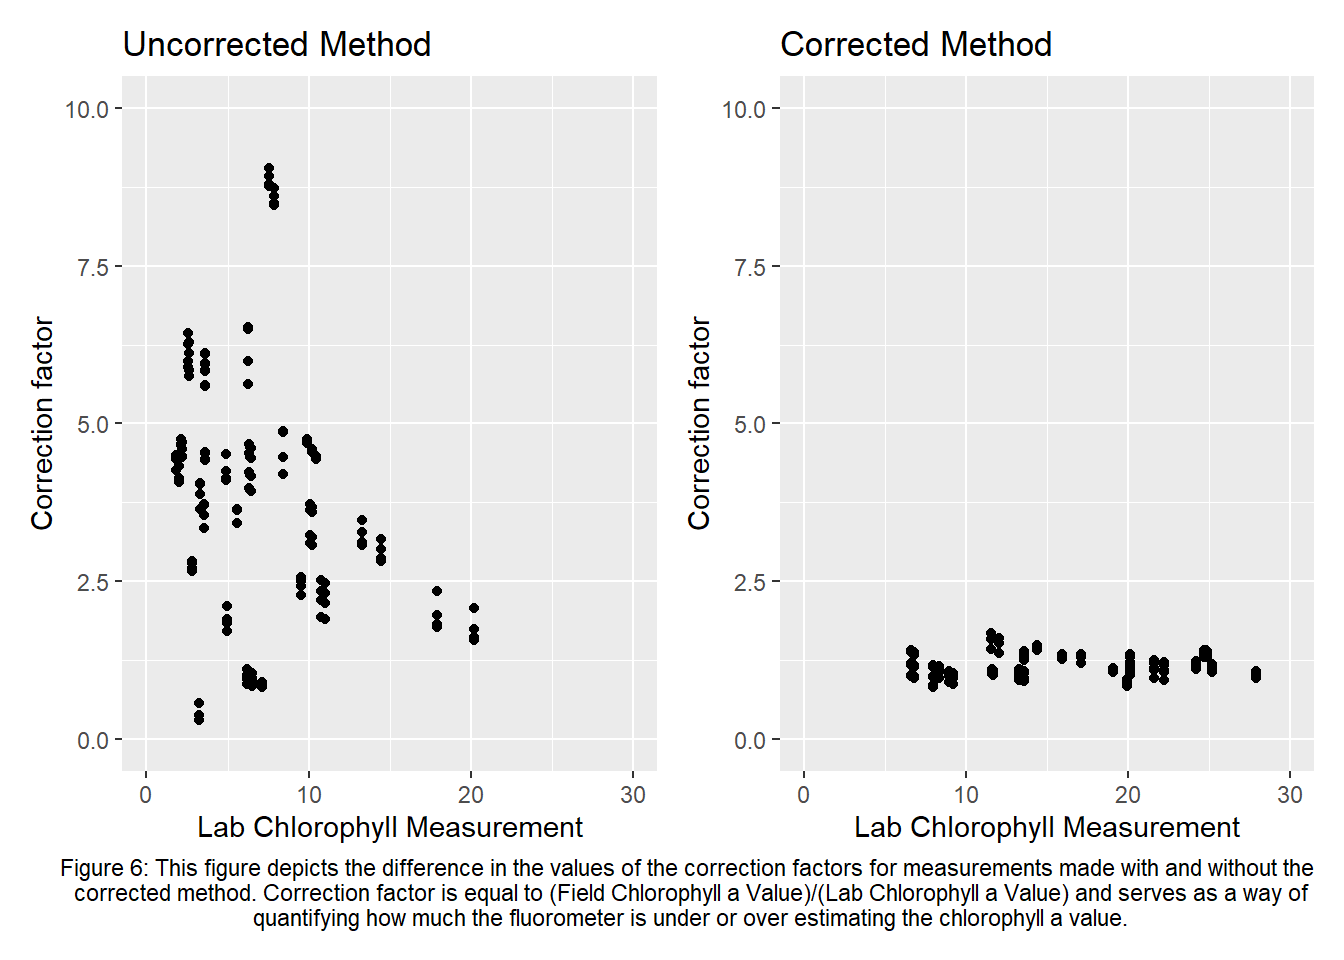
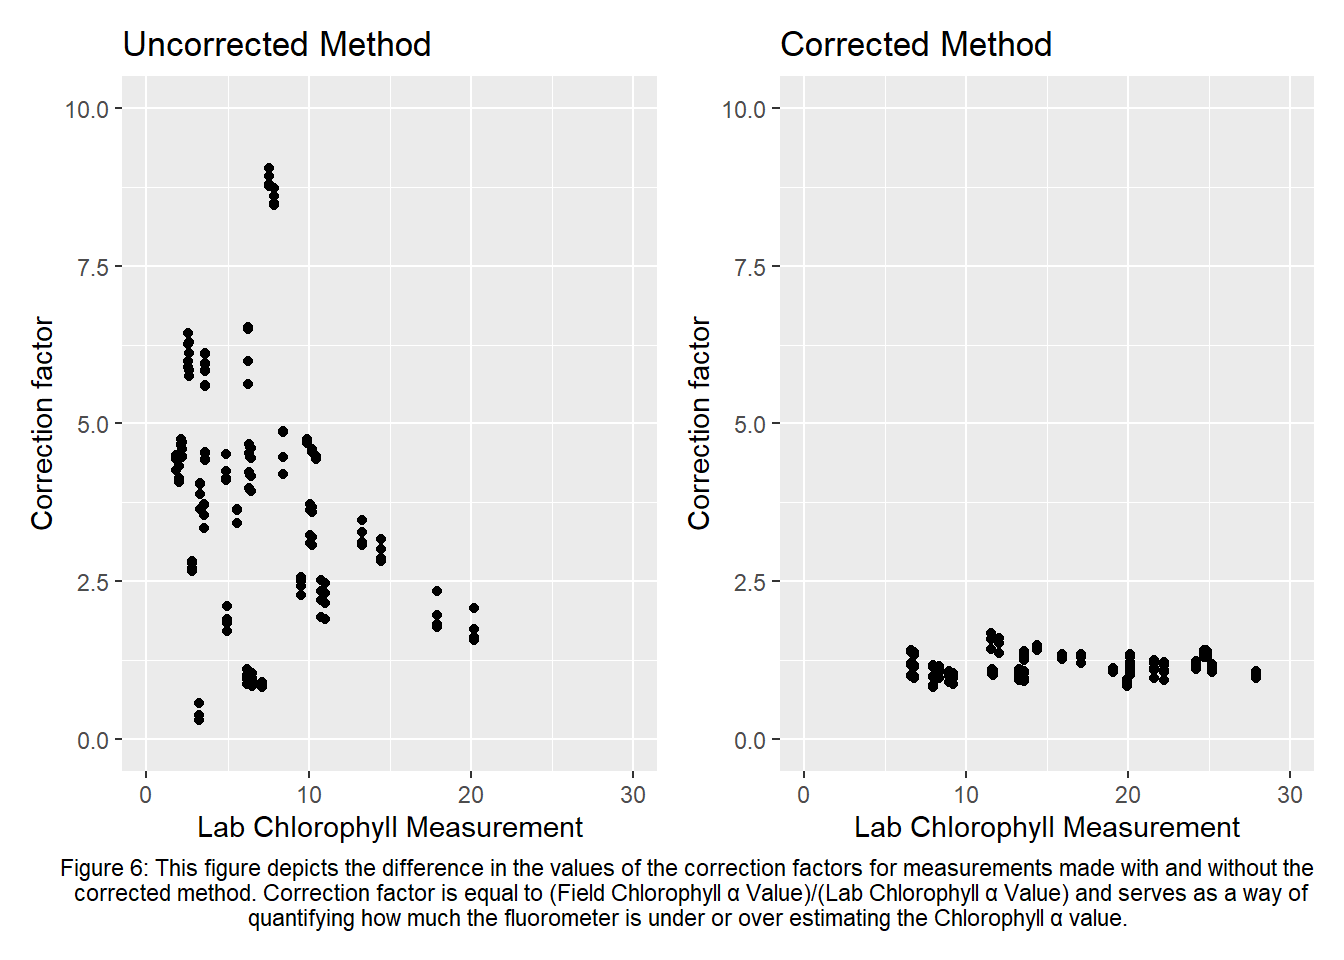
update

Changed region(s): [[0.1875, 0.9375, 0.7188, 0.9688]]

diff --git a/docs/index.html b/docs/index.html
@@ -154,24 +154,24 @@ ul.task-list li input[type="checkbox"] {
 <section id="about" class="level1">
 <h1>About</h1>
 <p>An important aspect of water quality monitoring is nutrient and algae levels, When there are lots of nutrients in the water, algae populations explode causing harmful algae blooms. It is very important that government and environmental agencies can quickly and accurately monitor levels to take action and inform citizens of dangers to air quality, drinking water, seafood, etc. The Environmental Protection Agency as well as the National Oceanic and Atmospheric Administration fund programs aimed at investigating the ecology, monitoring, event response, and prevention and control of harmful algal blooms. These programs emphasize the importance for scientists to have access to efficient methods of accurate data collection to be able to investigate and respond quickly, as well as to produce more data for better investigation. This project aims to support that same agenda by developing a methodology for using field fluorometers that gives scientists an accurate way to determine the algae level of a waterway without having to take any samples back to a lab for analysis.</p>
-<p>The Manatee County Natural Resources department has two programs that assess water quality both off the coast of Tampa and Sarasota Bay, as well as in freshwater systems that lead into those bays. These programs are named the Regional Ambient Monitoring Program (RAMP) and Surface Water Ambient Monitoring Program (SWAMP). There are 80 sites in total between the two programs where water quality is regularly assessed. Chlorophyll a analysis must be carried out to determine the concentration of algae in the water during these assessments. This involves over 9 different processes from sample event to chlorophyll a determination that always take an entire work day. Because of the time and energy needed to do chlorophyll a analysis for all 80 sites, data is mostly only recorded once a month at each location. This means that current data collection procedures do not produce enough results to be able to investigate. With a method of gathering this data that involves simply visiting a site and dipping a fluorometer into the water you wish to test, much more can be done in the fight to protect our waterways. Manatee County can use this access to loads more data to develop highly accurate and up to date systems for not only monitoring algae levels across the county, but developing the best strategies to prevent and control algae populations.</p>
-<p>Fluorometers serve as an efficient method to record values of chlorophyll a concentration in both fresh and saltwater, by emitting UV light and recording the irradiance emitted as a result of the light interaction with phytoplankton light harvesting complexes. Simply put, they send out light and record how much light is reflected back, which is representative of the density of phytoplankton in the water by chlorophyll a concentration. The more commonly used method uses a fluorometer, however this fluorometer requires preparation of samples and is laboratory bound. This method is used instead because its accuracy is verified and there are no interfering factors that can alter data. Despite this, the time needed to collect, transport, filter, freeze, and prepare samples makes this method too inefficient to consistently monitor algae levels. Therefore, it would be beneficial to investigate the data collection trends and results using the field based fluorometer to formulate a procedure for efficient algae monitoring with adequate data accuracy.</p>
+<p>The Manatee County Natural Resources department has two programs that assess water quality both off the coast of Tampa and Sarasota Bay, as well as in freshwater systems that lead into those bays. These programs are named the Regional Ambient Monitoring Program (RAMP) and Surface Water Ambient Monitoring Program (SWAMP). There are 80 sites in total between the two programs where water quality is regularly assessed. Chlorophyll α analysis must be carried out to determine the concentration of algae in the water during these assessments. This involves over 9 different processes from sample event to Chlorophyll α determination that always take an entire work day. Because of the time and energy needed to do Chlorophyll α analysis for all 80 sites, data is mostly only recorded once a month at each location. This means that current data collection procedures do not produce enough results to be able to investigate. With a method of gathering this data that involves simply visiting a site and dipping a fluorometer into the water you wish to test, much more can be done in the fight to protect our waterways. Manatee County can use this access to loads more data to develop highly accurate and up to date systems for not only monitoring algae levels across the county, but developing the best strategies to prevent and control algae populations.</p>
+<p>Fluorometers serve as an efficient method to record values of Chlorophyll α concentration in both fresh and saltwater, by emitting UV light and recording the irradiance emitted as a result of the light interaction with phytoplankton light harvesting complexes. Simply put, they send out light and record how much light is reflected back, which is representative of the density of phytoplankton in the water by Chlorophyll α concentration. The more commonly used method uses a fluorometer, however this fluorometer requires preparation of samples and is laboratory bound. This method is used instead because its accuracy is verified and there are no interfering factors that can alter data. Despite this, the time needed to collect, transport, filter, freeze, and prepare samples makes this method too inefficient to consistently monitor algae levels. Therefore, it would be beneficial to investigate the data collection trends and results using the field based fluorometer to formulate a procedure for efficient algae monitoring with adequate data accuracy.</p>
 </section>
 <section id="methodology" class="level1">
 <h1>Methodology</h1>
 <section id="different-measurement-methods" class="level3">
 <h3 class="anchored" data-anchor-id="different-measurement-methods">Different Measurement Methods</h3>
-<p>There are two different methods of determining chlorophyll a levels used in this methodology. The first is <a href="sop/Eureka Manta Multiprobe Manual.pdf"><em>Fluorometer in-situ: Manta2 Multiprobe</em></a>, this is referred to as the field based method. The second method is <a href="sop/EPA Method 445.0 Chlorophyll a Determinations SOP.pdf"><em>EPA Method 445.0</em></a>, this is referred to as the laboratory based method. The laboratory method is a widely used method across environmental agencies and produces valid and verifiable data as approved by the Environmental Protection Agency. The field based method has issues with interference that greatly impacts data accuracy and is not commonly used due to this. The goal is to determine a revised field based method by investigating different techniques and their effect on the field based method’s error as determined by comparing measurements to laboratory based method measurements.</p>
+<p>There are two different methods of determining Chlorophyll α concentration used in this methodology. The first is <a href="sop/Eureka Manta Multiprobe Manual.pdf"><em>Fluorometer in-situ: Manta2 Multiprobe</em></a>, this is referred to as the field based method. The second method is <a href="sop/EPA Method 445.0 Chlorophyll a Determinations SOP.pdf"><em>EPA Method 445.0</em></a>, this is referred to as the laboratory based method. The laboratory method is a widely used method across environmental agencies and produces valid and verifiable data as approved by the Environmental Protection Agency. The field based method has issues with interference that greatly impacts data accuracy and is not commonly used due to this. The goal is to determine a revised field based method by investigating different techniques and their effect on the field based method’s error as determined by comparing measurements to laboratory based method measurements.</p>
 </section>
 <section id="correction-procedure" class="level3">
 <h3 class="anchored" data-anchor-id="correction-procedure">Correction Procedure</h3>
 <p>Below is a summarized method of correcting the field based fluorometer. To view in depth step-by-step instructions on this method, along with the list of necessary equipment, view the fluorometer correction SOP.</p>
 <ol type="1">
-<li><p>Collect data set from field measurements and collection that match with the lab analyzed chlorophyll a concentration, investigate any trends, compare field to lab measurements.</p></li>
+<li><p>Collect data set from field measurements and collection that match with the lab analyzed Chlorophyll α concentration, investigate any trends, compare field to lab measurements.</p></li>
 <li><p>Conduct field collection and measurement aimed at determining the correct depth for accurate measurements, analyze data and set depth requirements.</p></li>
 <li><p>Determine range of algae levels that you are confident in field measurement accuracy and that serve as a range of normal algae levels.</p></li>
 <li><p>Conduct any remaining investigations of confounding factors if found in previous data trends.</p></li>
-<li><p>Employ depth requirements and range of confidence to create data set from field measurements and collection that match with the lab analyzed chlorophyll a concentration.&nbsp;</p></li>
+<li><p>Employ depth requirements and range of confidence to create data set from field measurements and collection that match with the lab analyzed Chlorophyll α concentration.&nbsp;</p></li>
 <li><p>Investigate the relationship between field and lab measurements, determine correction formula.</p></li>
 <li><p>Implement new field data collection method to increase data collection.</p></li>
 </ol>
@@ -181,7 +181,7 @@ ul.task-list li input[type="checkbox"] {
 <p>The main purpose of investigating the data coming from the field based fluorometer was to determine what is causing the data to vary so much. The goal was to identify this, determine a technique that greatly reduced variance and increased the accuracy of measurements. After this is determined, employ these new techniques and investigate the data to see if there is any factor that is still affecting the accuracy or variance of data coming from the field based fluorometer. The two factors affecting measurements in Manatee County are depth and the density of algae in the water. Your environment may pose more factors affecting accuracy and variance, therefore, I encourage thorough examination of data coming in throughout the process of correcting the fluorometer to catch any and all confounding factors</p>
 <section id="depth" class="level4">
 <h4 class="anchored" data-anchor-id="depth">Depth</h4>
-<p>Because the fluorometer determines the concentration of chlorophyll a based off of the light that is hitting its sensors, light coming from the sun can affect the measurement. To collect data that is free of interference from, the depth at which sunlight is no longer a factor must be determined. This depth may be different for environments with different conditions, for example, in my testing, different salinity/conductivity environments had different depth requirements. This is because of a couple of reasons. One is that freshwater is a lot more clear than brackish or salt water, so sunlight travels further in the water causing freshwater depth requirements to be at depths closer to the bottom. However, salt water, because of the higher conductivity, is not as clear, and so sunlight dissipates quicker. Along with this, certain salt water bottoms can be lightly colored which can affect the measurements. This makes closer to the surface the proper depth requirement for salt water. Brackish water, because of its lower conductivity than saltwater, needs to be deeper, and commonly does not have light colored bottoms so it’s depth requirement is in between the two.</p>
+<p>Because the fluorometer determines the concentration of Chlorophyll α based off of the light that is hitting its sensors, light coming from the sun can affect the measurement. To collect data that is free of interference from, the depth at which sunlight is no longer a factor must be determined. This depth may be different for environments with different conditions, for example, in my testing, different salinity/conductivity environments had different depth requirements. This is because of a couple of reasons. One is that freshwater is a lot more clear than brackish or salt water, so sunlight travels further in the water causing freshwater depth requirements to be at depths closer to the bottom. However, salt water, because of the higher conductivity, is not as clear, and so sunlight dissipates quicker. Along with this, certain salt water bottoms can be lightly colored which can affect the measurements. This makes closer to the surface the proper depth requirement for salt water. Brackish water, because of its lower conductivity than saltwater, needs to be deeper, and commonly does not have light colored bottoms so it’s depth requirement is in between the two.</p>
 <div class="cell">
 <div class="cell-output-display">
 <div>
@@ -212,11 +212,11 @@ ul.task-list li input[type="checkbox"] {
 </section>
 <section id="confidence-range" class="level4">
 <h4 class="anchored" data-anchor-id="confidence-range">Confidence Range</h4>
-<p>One of the trends I began seeing when going through the data was that the higher the chlorophyll a concentration, the more error between the field and lab determined concentrations. Through analyzing data it became clear that when a bloom is occurring, it is considerably more difficult to get a stable measurement of chlorophyll a in the water. Algae are not evenly distributed throughout the water when this is happening and so water at one site can range upwards of 10 to 15 ug/L. At this point, accurate monitoring of algae levels is less urgent and the event response to that algae bloom becomes more important. Because of this, A range must be set of the chlorophyll a concentrations that the fluorometer can accurately read. To formulate this range, I took historic records of chlorophyll a in the waterways I was testing and determined a 95% confidence interval at 37.5 ug/L to be my upper limit. This indicated to me that chlorophyll a levels above 37.5 ug/L are outside the normal levels found in these waterways. When measurements above 37.5 ug/L were then removed from the dataset, the accuracy of the correction formula was greatly increased. This range serves two purposes. One is to reduce the error in the correction formula and make it fit the data as best as it can. The second is to determine a level of chlorophyll a at which alarm bells should be raised because it is outside of the normal range of algae levels, signaling that monitoring needs to be turned into event response and control. The data at your disposal may be different and you will most likely have to formulate your own method to determine your own range.</p>
+<p>One of the trends I began seeing when going through the data was that the higher the Chlorophyll α concentration, the more error between the field and lab determined concentrations. Through analyzing data it became clear that when a bloom is occurring, it is considerably more difficult to get a stable measurement of Chlorophyll α in the water. Algae are not evenly distributed throughout the water when this is happening and so water at one site can range upwards of 10 to 15 ug/L. At this point, accurate monitoring of algae levels is less urgent and the event response to that algae bloom becomes more important. Because of this, A range must be set of the Chlorophyll α concentrations that the fluorometer can accurately read. To formulate this range, I took historic records of Chlorophyll α in the waterways I was testing and determined a 95% confidence interval at 37.5 ug/L to be my upper limit. This indicated to me that Chlorophyll α levels above 37.5 ug/L are outside the normal levels found in these waterways. When measurements above 37.5 ug/L were then removed from the dataset, the accuracy of the correction formula was greatly increased. This range serves two purposes. One is to reduce the error in the correction formula and make it fit the data as best as it can. The second is to determine a level of Chlorophyll α at which alarm bells should be raised because it is outside of the normal range of algae levels, signaling that monitoring needs to be turned into event response and control. The data at your disposal may be different and you will most likely have to formulate your own method to determine your own range.</p>
 <div class="quarto-figure quarto-figure-center">
 <figure class="figure">
 <p><img src="pictures/table.png" class="img-fluid figure-img" width="600"></p>
-<figcaption>Figure 4: Historic records of Chlorophyll a concentration in Manatee County yield the above statistics. Range of algae levels where accurate measurement is possible determined to be from 0-37.5 ug/L. Measurements outside of this range are not to be used in correction formula formulation and should be addressed as possibility for harmful algal bloom is present.</figcaption>
+<figcaption>Figure 4: Historic records of Chlorophyll α concentration in Manatee County yield the above statistics. Range of algae levels where accurate measurement is possible determined to be from 0-37.5 ug/L. Measurements outside of this range are not to be used in correction formula formulation and should be addressed as possibility for harmful algal bloom is present.</figcaption>
 </figure>
 </div>
 <p>As mentioned before, it is important to go through your data as you are collecting it and investigate any relationships that may end up being confounding factors you have to come up with requirements for. This may involve developing your own method to investigate these confounding factors.</p>
@@ -271,21 +271,22 @@ ul.task-list li input[type="checkbox"] {
 <figcaption>Figure 8: This figure illustrates the terms “precise” and “accurate”. Precision depends on variance of measurements, accuracy depends on correctness of measurements.</figcaption>
 </figure>
 </div>
-<p>At the beginning of the correction process, the field based fluorometer’s measurements were not accurate and not precise. Through quality assurance testing, methods were developed to specify what depth and range measurements should be taken at. With these methods implemented, the field based fluorometer’s measurements precise, but not accurate. Precise data was then compiled and compared against verified measurements to determine a correction formula. The use of this formula then corrects the accuracy of measurements, so that the field based fluorometer is able to take accurate and precise measurements of chlorophyll a concentrations.</p>
+<p>At the beginning of the correction process, the field based fluorometer’s measurements were not accurate and not precise. Through quality assurance testing, methods were developed to specify what depth and range measurements should be taken at. With these methods implemented, the field based fluorometer’s measurements precise, but not accurate. Precise data was then compiled and compared against verified measurements to determine a correction formula. The use of this formula then corrects the accuracy of measurements, so that the field based fluorometer is able to take accurate and precise measurements of Chlorophyll α concentrations.</p>
 <section id="quality-assurance-1" class="level3">
 <h3 class="anchored" data-anchor-id="quality-assurance-1">Quality Assurance</h3>
-<p>As seen in <a href="####%20Depth">Figures 1, 2, and 3</a>, depth requirements were developed for the different environments being investigated using the target piece of equipment. Freshwater measurements need to be taken close to the bottom due to the effect of sunlight, whereas saltwater and brackish water measurements need to be taken closer to the surface due to interference from light colored bottoms. Figure 4 lays out the definition of each environment and the required depth that measurements should be taken at.</p>
-<p>Figure 5 depicts the data determining the range of chlorophyll a concentration that the field based fluorometer can accurately measure. It is necessary to determine this range because when algae blooms occur, chlorophyll a concentrations are not stable in the water. Therefore, any data collected for determining a correction formula is likely to have exceptionally more error than non-bloom data and forces sacrificing accuracy for increased range of use. It is also important to mention that it is not necessary for this corrected method to be able to be applied to algae levels beyond the range determined. This method is to be used to be able to continuously monitor waterways, and because this range is based off of historical records of algae levels, any measurements outside of the range would be of concern and need addressing.</p>
+<p>As seen in Figures 1, 2, and 3, depth requirements were developed for the different environments being investigated using the target piece of equipment. Freshwater measurements need to be taken close to the bottom due to the effect of sunlight, whereas saltwater and brackish water measurements need to be taken closer to the surface due to interference from light colored bottoms. Figure 4 lays out the definition of each environment and the required depth that measurements should be taken at.</p>
+<p>Figure 5 depicts the data determining the range of Chlorophyll α concentration that the field based fluorometer can accurately measure. It is necessary to determine this range because when algae blooms occur, Chlorophyll α concentrations are not stable in the water. Therefore, any data collected for determining a correction formula is likely to have exceptionally more error than non-bloom data and forces sacrificing accuracy for increased range of use. It is also important to mention that it is not necessary for this corrected method to be able to be applied to algae levels beyond the range determined. This method is to be used to be able to continuously monitor waterways, and because this range is based off of historical records of algae levels in these waterways, any measurements outside of the range would be of concern and need addressing.</p>
 <div class="quarto-figure quarto-figure-center">
 <figure class="figure">
 <p><img src="pictures/qa.jpg" class="img-fluid figure-img" width="500"></p>
-<figcaption>Figure 9: This figure directs how measurements should be taken to include the quality assurance methods. First you dip the multiprobe into the water and determine the conductivity. Then drop the multiprobe to the depth determined for the specific conductivity range. Then allow fluorometer on multirpobe to measure chlorophyll a concentration. If the concentration is less than or equal to 37.5 ug/L, then take the measurement and use the collected data to determine the correction formula.</figcaption>
+<figcaption>Figure 9: This figure directs how measurements should be taken to include the quality assurance methods. First you dip the multiprobe into the water and determine the conductivity. Then drop the multiprobe to the depth determined for the specific conductivity range. Then allow fluorometer on multirpobe to measure Chlorophyll α concentration. If the concentration is less than or equal to 37.5 ug/L, then take the measurement and use the collected data to determine the correction formula.</figcaption>
 </figure>
 </div>
 <p>Since depth and range of measurements was affecting field based fluorometer measurements, methods had to be developed that limited their effect. By employing these methods, field based fluorometer measurements are more precise. Now that field based measurements are more precise, what was left was to determine the correction formula to make measurements more accurate.</p>
 </section>
 <section id="results-1" class="level3">
 <h3 class="anchored" data-anchor-id="results-1">Results</h3>
+<p>Once the previously mentioned techniques were applied to the field measurement process, a new data set was created for measurements that were taken using the correct methodology. Figure 5 displays these measurements and how they compare to the lab based measurements. This data yielded much more precision in field measurements, as expected. With around 150 data points comparing field based measurements to lab based measurements, a correction formula was determined by the line of best fit. This line of best fit having an R squared value of 0.895, indicated that the equation was accurate enough to be applied for Manatee County Environmental Protection Division data collection procedures. Therefore, the following equation is used to correct field based measurement data: <img src="pictures/equation.jpg" class="img-fluid quarto-figure quarto-figure-center" width="400" alt="Figure 10: The Correction equation determined to correct field based fluorometer measurements of chlorophyll a concentration. the variable X is representative of a field measurement, and Y is representative of the corrected value."></p>
 </section>
 </section>
 <section id="references" class="level1">
@@ -303,7 +304,7 @@ ul.task-list li input[type="checkbox"] {
 </ol></li>
 <li><p><a href="sop/Eureka Manta Multiprobe Manual.pdf"><em>Eureka Manta Multiprobe Manual</em></a></p></li>
 <li><p><a href="sop/Field Sample Collection SOP.pdf"><em>Field Sample Collection SOP</em></a></p></li>
-<li><p><a href="sop/EPA Method 445.0 Chlorophyll a Determinations SOP.pdf"><em>EPA Method 445.0 Chlorophyll a Determinations SOP</em></a></p></li>
+<li><p><a href="sop/EPA Method 445.0 Chlorophyll a Determinations SOP.pdf"><em>EPA Method 445.0 Chlorophyll α Determinations SOP</em></a></p></li>
 </ol>
 
 
